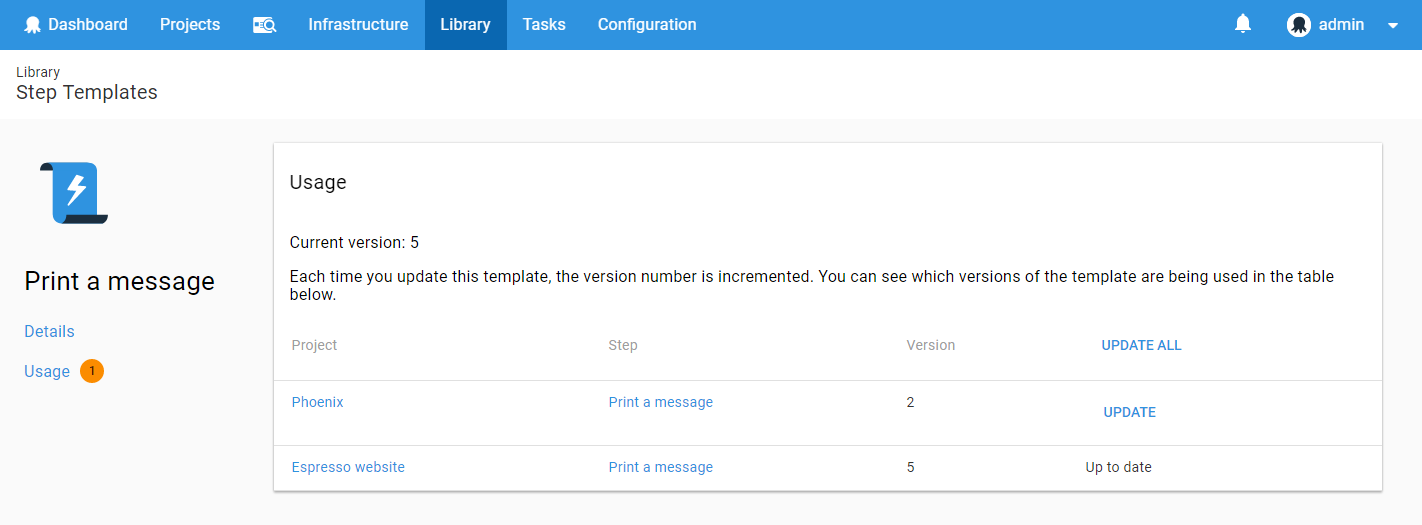
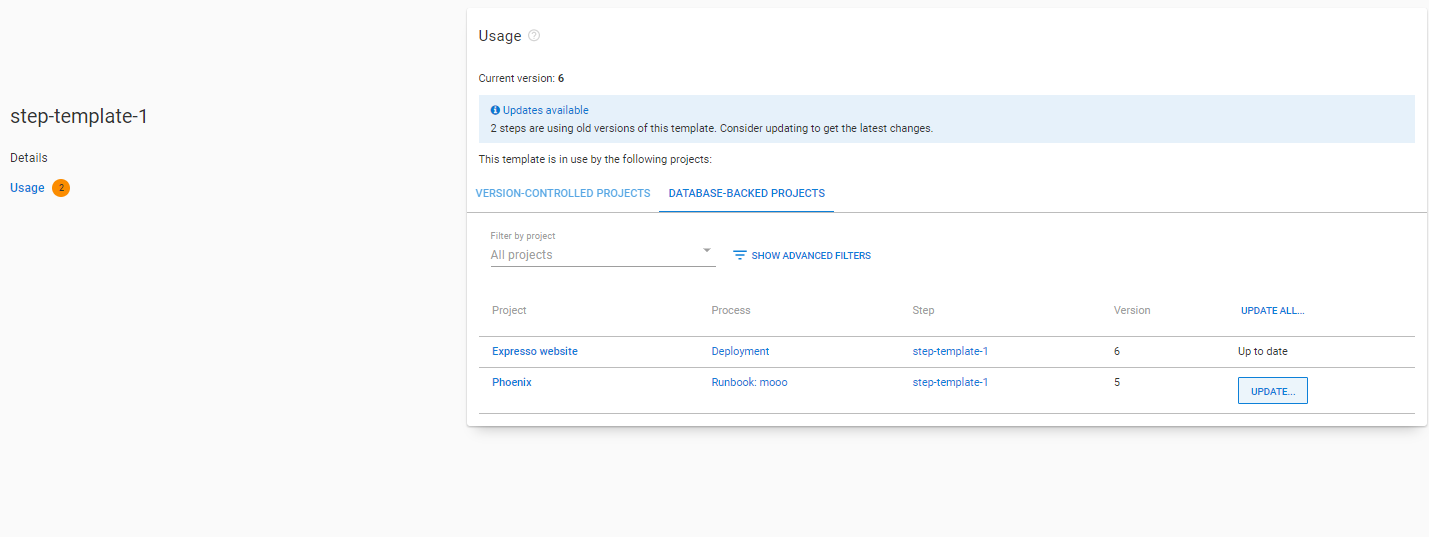
update to mention the new features of this page for CaC

diff --git a/docs/projects/custom-step-templates.md b/docs/projects/custom-step-templates.md
@@ -52,9 +52,14 @@ The Settings tab allows you to give your step a name and optional description.
 
 After saving your step, you'll notice another tab called Usage. This tab shows where the step is being used and whether the version being used is current or a previous version.
 
-You'll also see a handy counter next to the Usage tab so you can see at a glance how many projects are out-of-date.
+You'll also see a handy counter next to the Usage tab so you can see at a glance how many projects are out-of-date. You have the ability to filter database-backed usages by project, process type, and whether they are on the latest version of the step template or not.
 
 ![Step templates usage](images/step-templates-usage.png "width=500")
+
+If you have [version-controlled](/docs/projects/version-control/index.md) Octopus projects that are using action templates, you will be able to see a tab with version-controlled usages in up to twenty recently released projects. You can also search for usages in a specific branch or project using the filtering and advanced filtering. Usages of version-controlled projects are only detected in projects and branches that have been released.
+
+![Step templates usage 2](images/step-templates-usage-2.png "width=500")
+
 
 ## Custom logo
 
